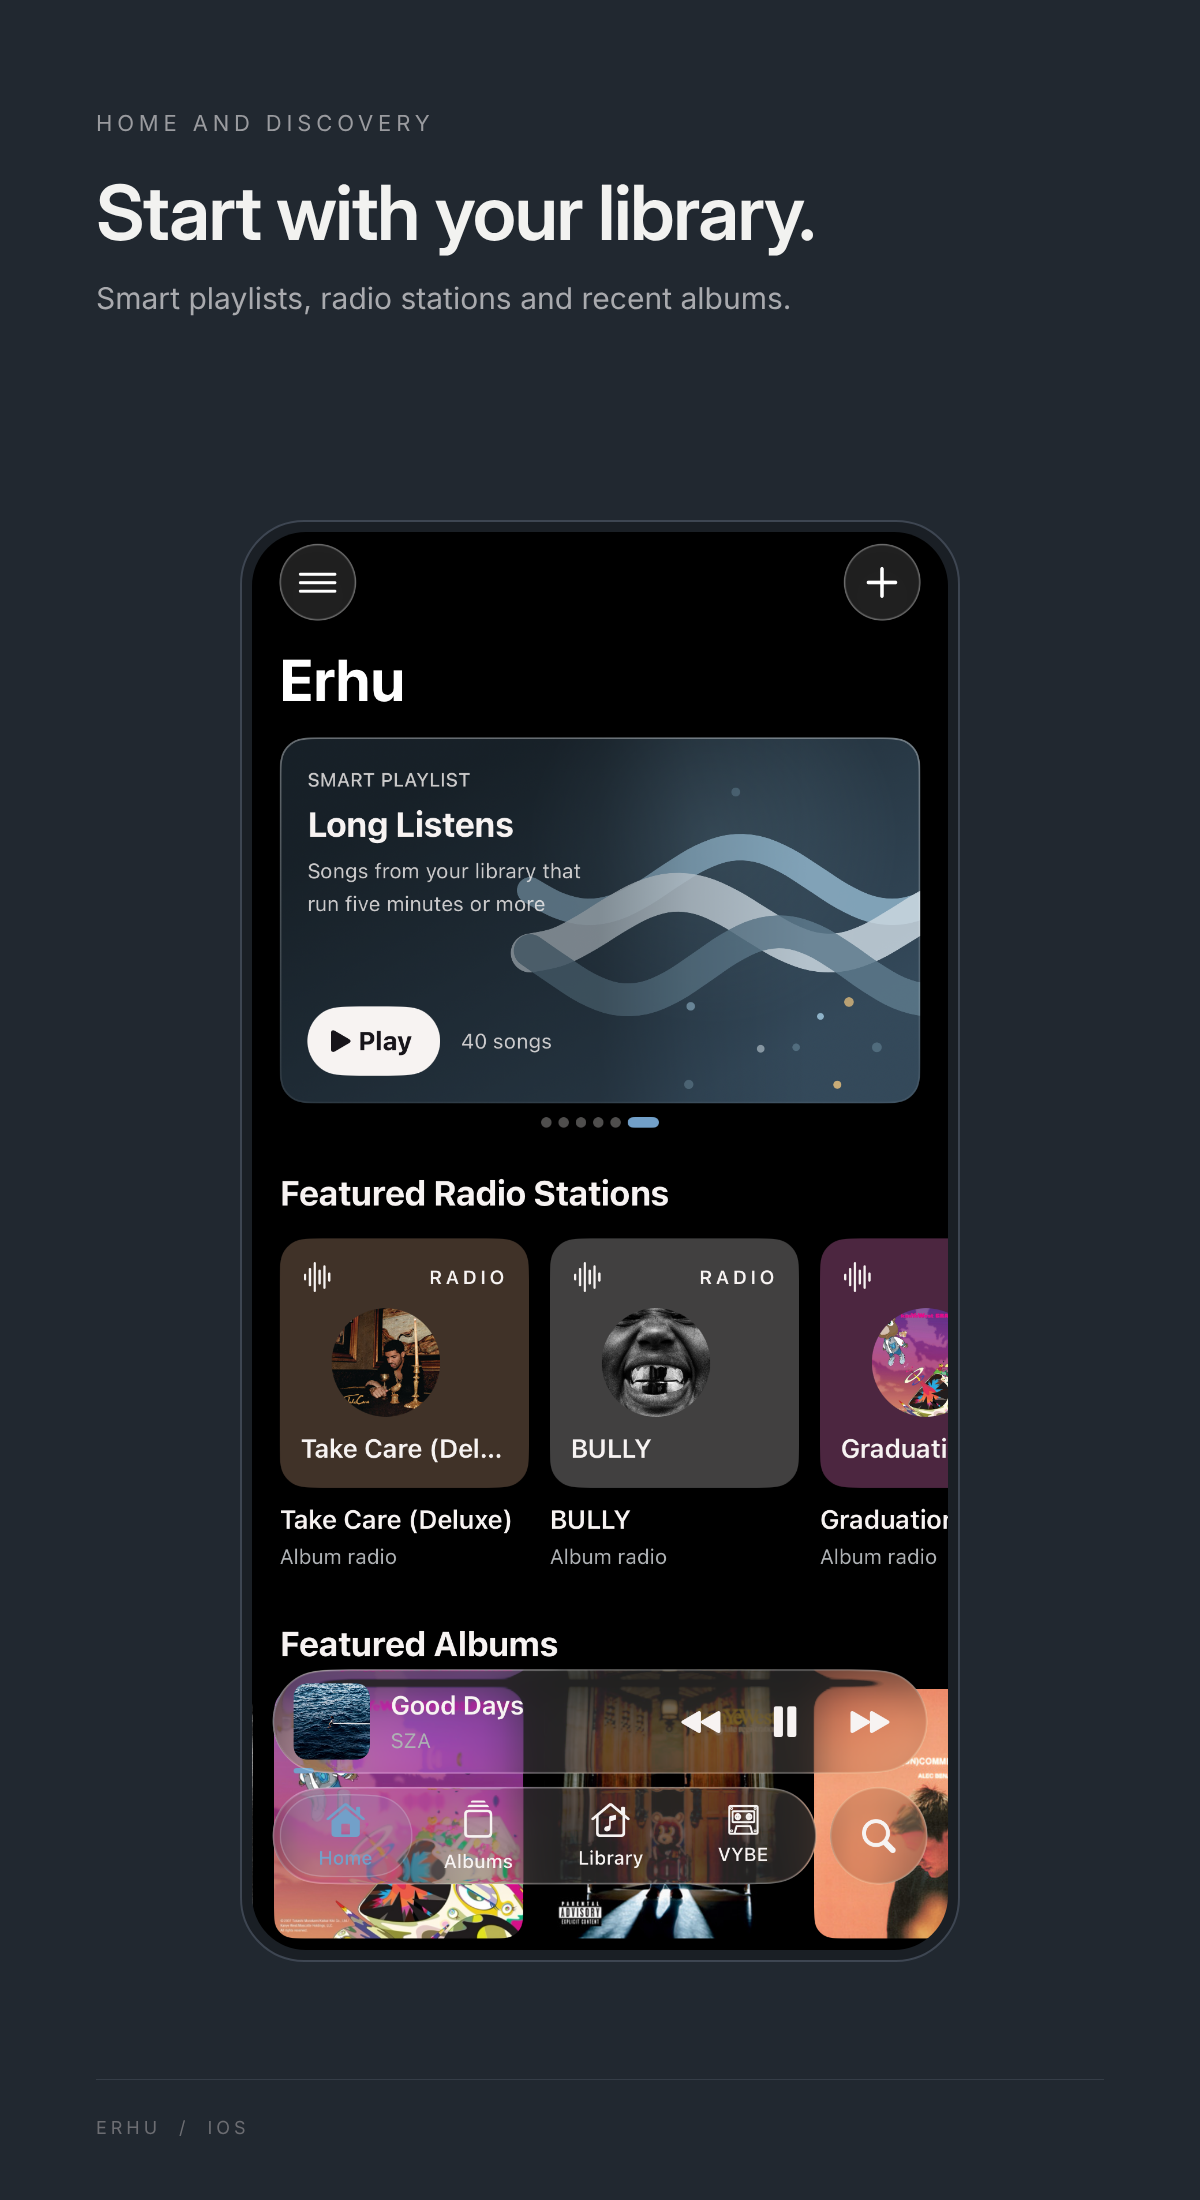
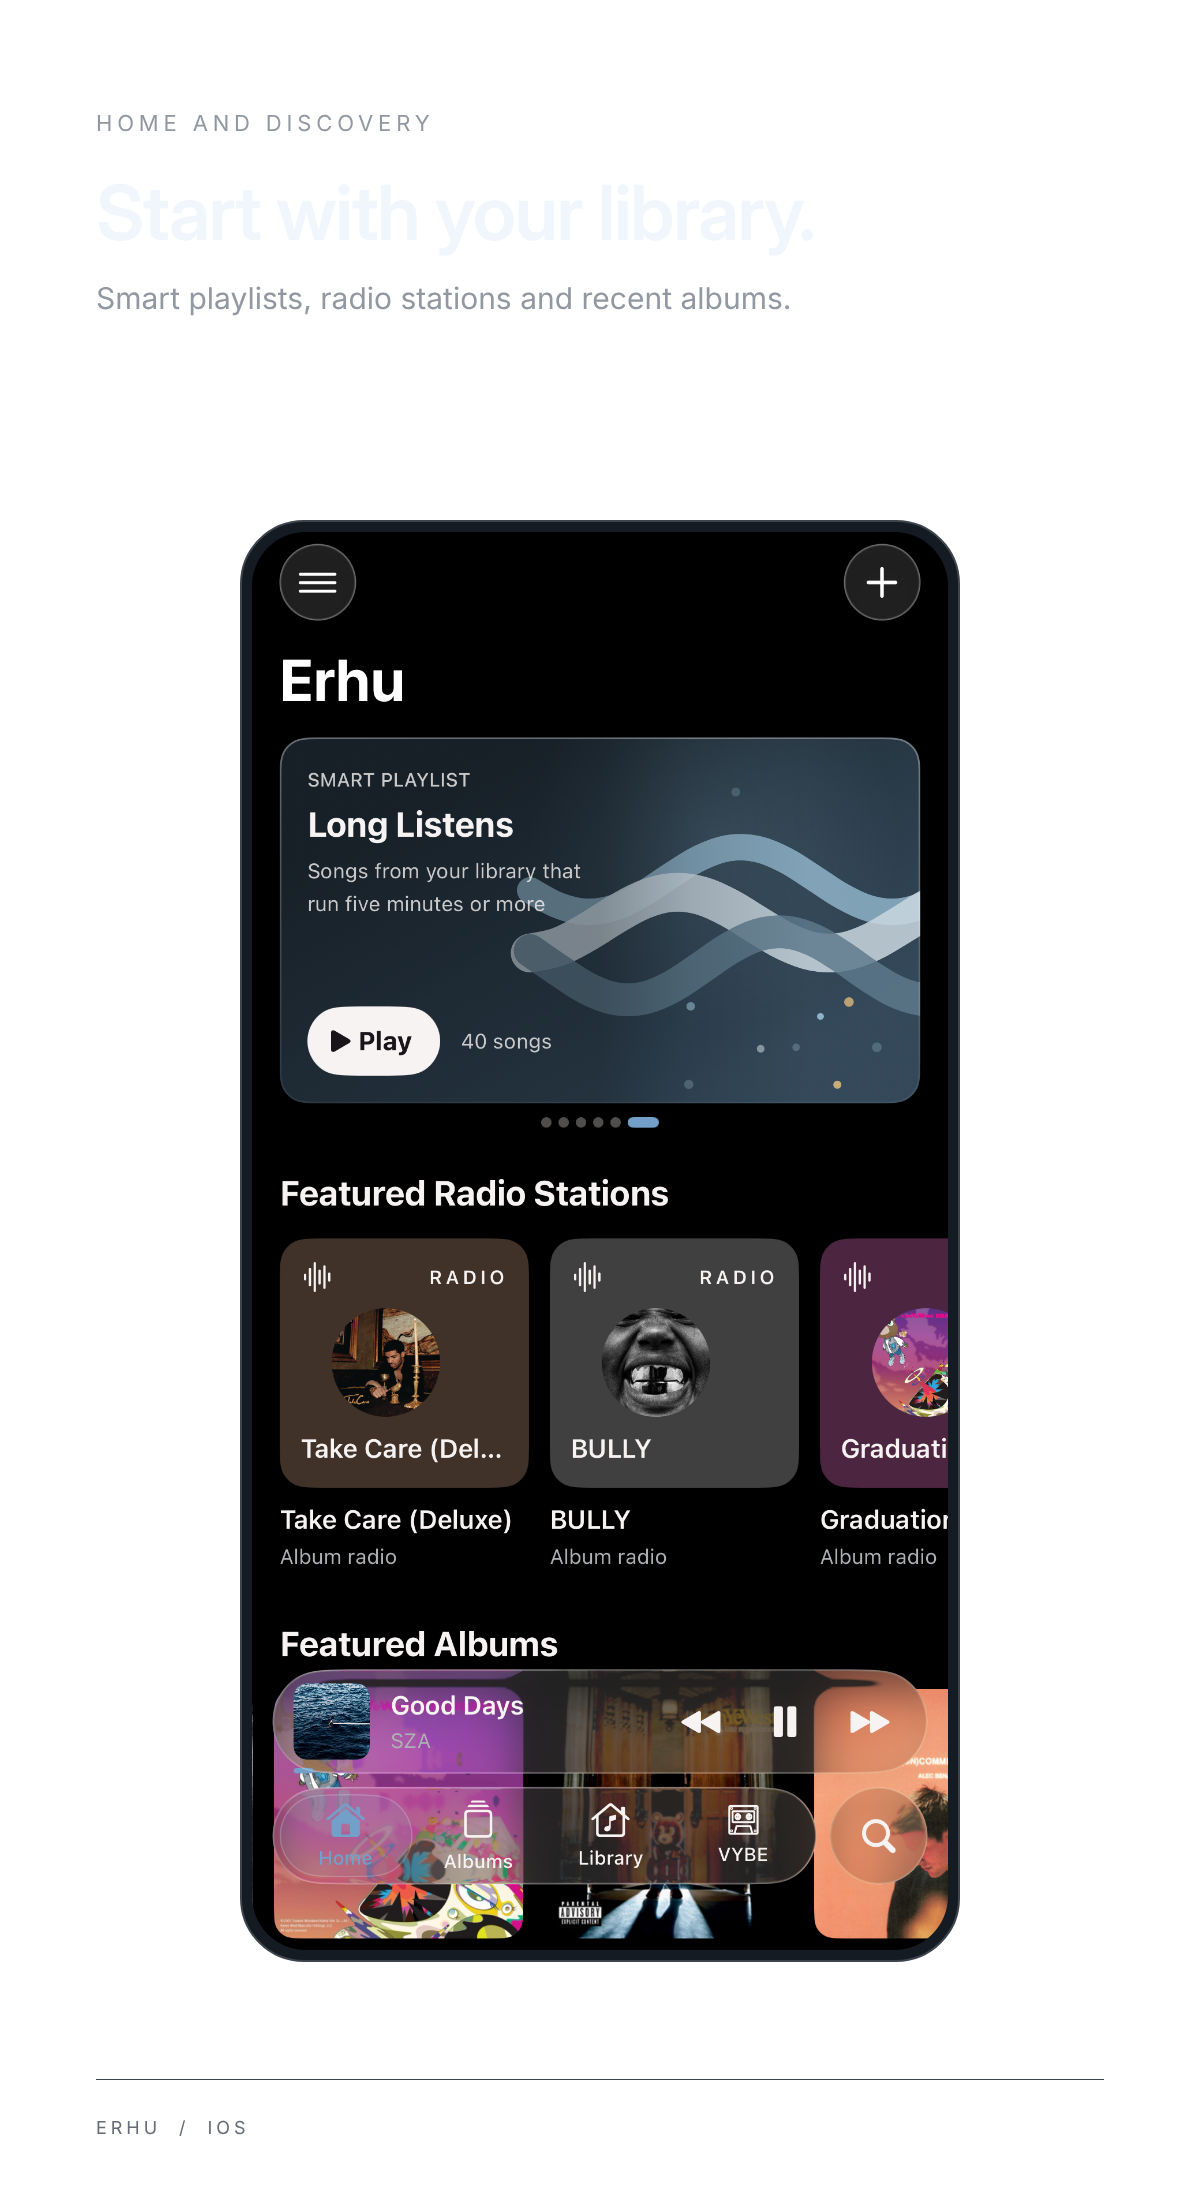
Give the showcase cards a transparent background and light-theme versions [skip ci]
The page colour now shows through in every GitHub theme, and the README uses
<picture> to show dark-text cards in the light theme.

diff --git a/README.md b/README.md
@@ -2,7 +2,7 @@
 
 An iPhone music player for your own collection.
 
-<img src="images/showcase/hero.png" alt="erhu Home and Now Playing on an iPhone" width="1200">
+<picture><source media="(prefers-color-scheme: light)" srcset="images/showcase/light/hero.png"><img src="images/showcase/hero.png" alt="erhu Home and Now Playing on an iPhone" width="1200"></picture>
 
 ## Beta 1
 
@@ -46,46 +46,46 @@ Captured on an iPhone from the current build. They show the real interfaces.
 ### Home and discovery
 
 <p>
-  <a href="images/showcase/home.png"><img src="images/showcase/home.png" alt="erhu Home with a smart playlist and featured radio stations, captured on an iPhone" width="270"></a>
-  <a href="images/showcase/radio.png"><img src="images/showcase/radio.png" alt="An erhu radio station built from A Sky Full of Stars, captured on an iPhone" width="270"></a>
-  <a href="images/showcase/vybe.png"><img src="images/showcase/vybe.png" alt="erhu VYBE search for late night, with the closest songs in the library, captured on an iPhone" width="270"></a>
+  <a href="images/showcase/home.png"><picture><source media="(prefers-color-scheme: light)" srcset="images/showcase/light/home.png"><img src="images/showcase/home.png" alt="erhu Home with a smart playlist and featured radio stations, captured on an iPhone" width="270"></picture></a>
+  <a href="images/showcase/radio.png"><picture><source media="(prefers-color-scheme: light)" srcset="images/showcase/light/radio.png"><img src="images/showcase/radio.png" alt="An erhu radio station built from A Sky Full of Stars, captured on an iPhone" width="270"></picture></a>
+  <a href="images/showcase/vybe.png"><picture><source media="(prefers-color-scheme: light)" srcset="images/showcase/light/vybe.png"><img src="images/showcase/vybe.png" alt="erhu VYBE search for late night, with the closest songs in the library, captured on an iPhone" width="270"></picture></a>
 </p>
 
 ### The listening experience
 
 <p>
-  <a href="images/showcase/now-playing.png"><img src="images/showcase/now-playing.png" alt="erhu Now Playing, captured on an iPhone" width="270"></a>
-  <a href="images/showcase/lyrics.png"><img src="images/showcase/lyrics.png" alt="erhu synced lyrics, captured on an iPhone" width="270"></a>
-  <a href="images/showcase/queue.png"><img src="images/showcase/queue.png" alt="erhu queue, captured on an iPhone" width="270"></a>
+  <a href="images/showcase/now-playing.png"><picture><source media="(prefers-color-scheme: light)" srcset="images/showcase/light/now-playing.png"><img src="images/showcase/now-playing.png" alt="erhu Now Playing, captured on an iPhone" width="270"></picture></a>
+  <a href="images/showcase/lyrics.png"><picture><source media="(prefers-color-scheme: light)" srcset="images/showcase/light/lyrics.png"><img src="images/showcase/lyrics.png" alt="erhu synced lyrics, captured on an iPhone" width="270"></picture></a>
+  <a href="images/showcase/queue.png"><picture><source media="(prefers-color-scheme: light)" srcset="images/showcase/light/queue.png"><img src="images/showcase/queue.png" alt="erhu queue, captured on an iPhone" width="270"></picture></a>
 </p>
 
 ### Your library
 
 <p>
-  <a href="images/showcase/library.png"><img src="images/showcase/library.png" alt="erhu library with playlists, favourites and artists, captured on an iPhone" width="270"></a>
-  <a href="images/showcase/albums.png"><img src="images/showcase/albums.png" alt="erhu albums sorted by recently played, captured on an iPhone" width="270"></a>
-  <a href="images/showcase/songs-moods.png"><img src="images/showcase/songs-moods.png" alt="erhu songs filtered by the Late night mood, captured on an iPhone" width="270"></a>
+  <a href="images/showcase/library.png"><picture><source media="(prefers-color-scheme: light)" srcset="images/showcase/light/library.png"><img src="images/showcase/library.png" alt="erhu library with playlists, favourites and artists, captured on an iPhone" width="270"></picture></a>
+  <a href="images/showcase/albums.png"><picture><source media="(prefers-color-scheme: light)" srcset="images/showcase/light/albums.png"><img src="images/showcase/albums.png" alt="erhu albums sorted by recently played, captured on an iPhone" width="270"></picture></a>
+  <a href="images/showcase/songs-moods.png"><picture><source media="(prefers-color-scheme: light)" srcset="images/showcase/light/songs-moods.png"><img src="images/showcase/songs-moods.png" alt="erhu songs filtered by the Late night mood, captured on an iPhone" width="270"></picture></a>
 </p>
 
 ### Menus and audio controls
 
 <p>
-  <a href="images/showcase/glass.png"><img src="images/showcase/glass.png" alt="The floating glass track menu in Now Playing, captured on an iPhone" width="270"></a>
-  <a href="images/showcase/equalizer.png"><img src="images/showcase/equalizer.png" alt="erhu equalizer with the Bass Booster preset, captured on an iPhone" width="270"></a>
+  <a href="images/showcase/glass.png"><picture><source media="(prefers-color-scheme: light)" srcset="images/showcase/light/glass.png"><img src="images/showcase/glass.png" alt="The floating glass track menu in Now Playing, captured on an iPhone" width="270"></picture></a>
+  <a href="images/showcase/equalizer.png"><picture><source media="(prefers-color-scheme: light)" srcset="images/showcase/light/equalizer.png"><img src="images/showcase/equalizer.png" alt="erhu equalizer with the Bass Booster preset, captured on an iPhone" width="270"></picture></a>
 </p>
 
 ### Library tools
 
 <p>
-  <a href="images/showcase/artwork-fetcher.png"><img src="images/showcase/artwork-fetcher.png" alt="Artwork Fetcher on an iPhone, showing album and artist-photo checks" width="270"></a>
-  <a href="images/showcase/artwork-upgrade.png"><img src="images/showcase/artwork-upgrade.png" alt="Upgrade album covers on an iPhone, listing higher-resolution matches with an animated cover marked" width="270"></a>
+  <a href="images/showcase/artwork-fetcher.png"><picture><source media="(prefers-color-scheme: light)" srcset="images/showcase/light/artwork-fetcher.png"><img src="images/showcase/artwork-fetcher.png" alt="Artwork Fetcher on an iPhone, showing album and artist-photo checks" width="270"></picture></a>
+  <a href="images/showcase/artwork-upgrade.png"><picture><source media="(prefers-color-scheme: light)" srcset="images/showcase/light/artwork-upgrade.png"><img src="images/showcase/artwork-upgrade.png" alt="Upgrade album covers on an iPhone, listing higher-resolution matches with an animated cover marked" width="270"></picture></a>
 </p>
 
 ### Transition Studio
 
 <p>
-  <a href="images/showcase/transition-studio.png"><img src="images/showcase/transition-studio.png" alt="Transition Studio on an iPhone, showing album settings and track pairs" width="270"></a>
-  <a href="images/showcase/transition-editor.png"><img src="images/showcase/transition-editor.png" alt="The transition editor on an iPhone, showing waveforms and editable curves" width="270"></a>
+  <a href="images/showcase/transition-studio.png"><picture><source media="(prefers-color-scheme: light)" srcset="images/showcase/light/transition-studio.png"><img src="images/showcase/transition-studio.png" alt="Transition Studio on an iPhone, showing album settings and track pairs" width="270"></picture></a>
+  <a href="images/showcase/transition-editor.png"><picture><source media="(prefers-color-scheme: light)" srcset="images/showcase/light/transition-editor.png"><img src="images/showcase/transition-editor.png" alt="The transition editor on an iPhone, showing waveforms and editable curves" width="270"></picture></a>
 </p>
 
 [Album order and transitions](docs/ALBUM_ORDER_AND_TRANSITIONS.md) · The in-app introduction covers these tools; reopen it from **Settings → About Erhu → Introduction**.

diff --git a/images/showcase/README.md b/images/showcase/README.md
@@ -2,7 +2,9 @@
 
 The images shown in the main [README](../../README.md).
 
-The PNGs here are styled cards (1200 × 2200, hero 2400 × 1500) made from the plain iPhone screenshots in
+The PNGs here are styled cards (1200 × 2200, hero 2400 × 1500) with a transparent background, so the page
+colour shows through. The ones in this folder are for GitHub's dark themes and the ones in [`light/`](light) for
+the light theme; the README picks between them with `<picture>`. They are made from the plain iPhone screenshots in
 [`raw/`](raw) (1206 × 2457, status bar cropped). To change one, replace its screenshot in `raw/` or edit its
 caption in [`scripts/showcase/render.mjs`](../../scripts/showcase/render.mjs), then run:
 
